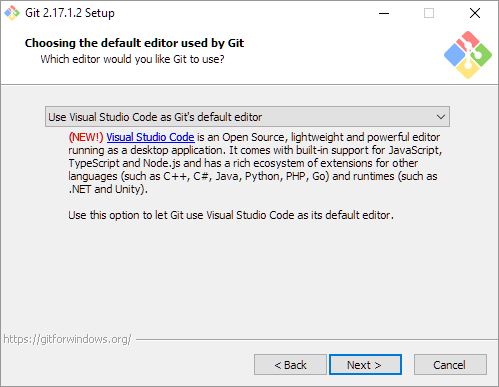
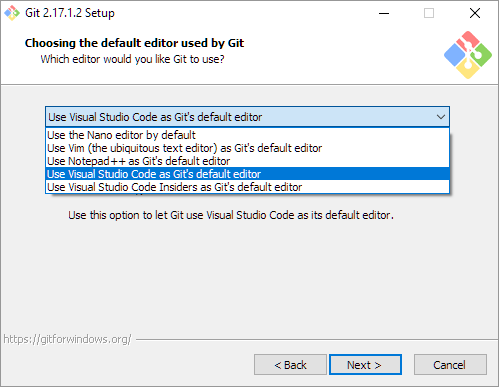
git mostly

Changed region(s): [[0.0902, 0.3101, 0.9319, 0.5271]]

diff --git a/sections/git.md b/sections/git.md
@@ -1,0 +1,59 @@
+# Git
+Git is a distributed version control system used to manage changes to text files. 
+
+# OS/X
+
+On OS/X, git is part of the xcode command line tools. To install them:
+
+1. Open a [terminal](osx_terminal).
+
+2. Type the following in the terminal:
+```bash
+xcode-select --install
+```
+
+# Windows
+As part of installing git, install the gitbash command line environment so that the command line is consistent across Windows, OSX and Linux.
+
+1. Download git for windows:
+https://git-scm.com/download/win
+
+2. *Click* on the git installer:
+![git installation icon, looks like a tree branch inside 4 colored squares](../images/windows/git/git00.png)
+
+3. *Click* through the installation steps (keeping the defaults) until you reach the "Choosing the default editor used by Git" window. Select `Visual Studio Code` as the default editor. *Click* `Next`:
+
+![installation menu containing drop down of editor options: nano, vim, notepad++, visual studio code, visual studio code insiders](../images/windows/git/git06.png)
+
+5. Choose the "Use Git from the Windows Command Prompt" radio button and then *click* `Next`:
+
+![three radio buttons: use git from git bash, use git from windows command prompt, use git and optional unix tools from the windows command prompt](../images/windows/git/git07.png) 
+
+6. *Click* through the next few installation windows using the defaults. On the configureing the terminal emulator to use with Git Bash window, choose the "Use Windows default console window" option:
+
+![two radio buttons: USe MinTTY, Use Windows default console window](../images/windows/git/git10.png)
+
+7. *Click* through the rest of the install, leaving the defaults, and then *click* `Finish` on the last window: 
+![final installation window that says "completing the git setup wizard"](../images/windows/git/git13.png)
+
+## Test Install
+
+Test that git is installed. 
+1. Open a [windows](windows_terminal.md) or [OSX](osx_terminal.md) terminal. 
+
+2. Type the following into the terminal:
+```bash
+ git
+ ```
+
+The terminal should print something like:
+
+```bash
+usage: git [--version] [--help] [-C <path>] [-c name=value]
+           [--exec-path[=<path>]] [--html-path] [--man-path] [--info-path]
+           [-p | --paginate | --no-pager] [--no-replace-objects] [--bare]
+           [--git-dir=<path>] [--work-tree=<path>] [--namespace=<name>]
+           <command> [<args>]
+
+
+```

diff --git a/sections/qgis.md b/sections/qgis.md
@@ -1,0 +1,30 @@
+# QGIS
+
+[QGIS](http://www.qgis.org/en/site/) is a free and open source Geographical Information System. 
+
+
+
+## Windows/Linux Install:
+
+ [QGIS](http://www.qgis.org/en/site/)
+* Click on the 'QGIS standalone installer' and follow the prompts. 
+
+**Mac OS/X:**
+1. On a **Mac**, go to the [KyngChaos](http://www.kyngchaos.com/software/qgis) page.
+	![kingchaos](figs/qdown.png)
+2. Something like this will download
+	![download](figs/qgisdownload.png)
+3. You MUST install the items **IN NUMERICAL ORDER**. It is very important to follow the numbers. 
+4. Follow all of the prompts for all of the packages. 
+
+**Launch** QGIS. Your new blank map project will look like this:
+
+![blank](figs/01_OpenQGIS.png)
+
+Note: The QGIS Python is independent of the Anaconda Python used throughout the DRI. You must install the QGIS numpy and matplotlib, even if they are already installed in your system. If you need QGIS to work with your system Python, come speak to the Digital Fellows during PUG or office hours or email gc.digitalfellows@gmail.com.
+
+__Attribution__: Instructions are modified from [Michelle A. McSweeney](https://github.com/michellejm/Intro-QGIS-CUNY-FemSTEM/blob/master/Install-QGIS.md)
+
+#### Troubleshooting
+
+You may need to change [security & privacy settings](https://support.apple.com/en-us/HT202491) to allow app downloads from outside sources.
